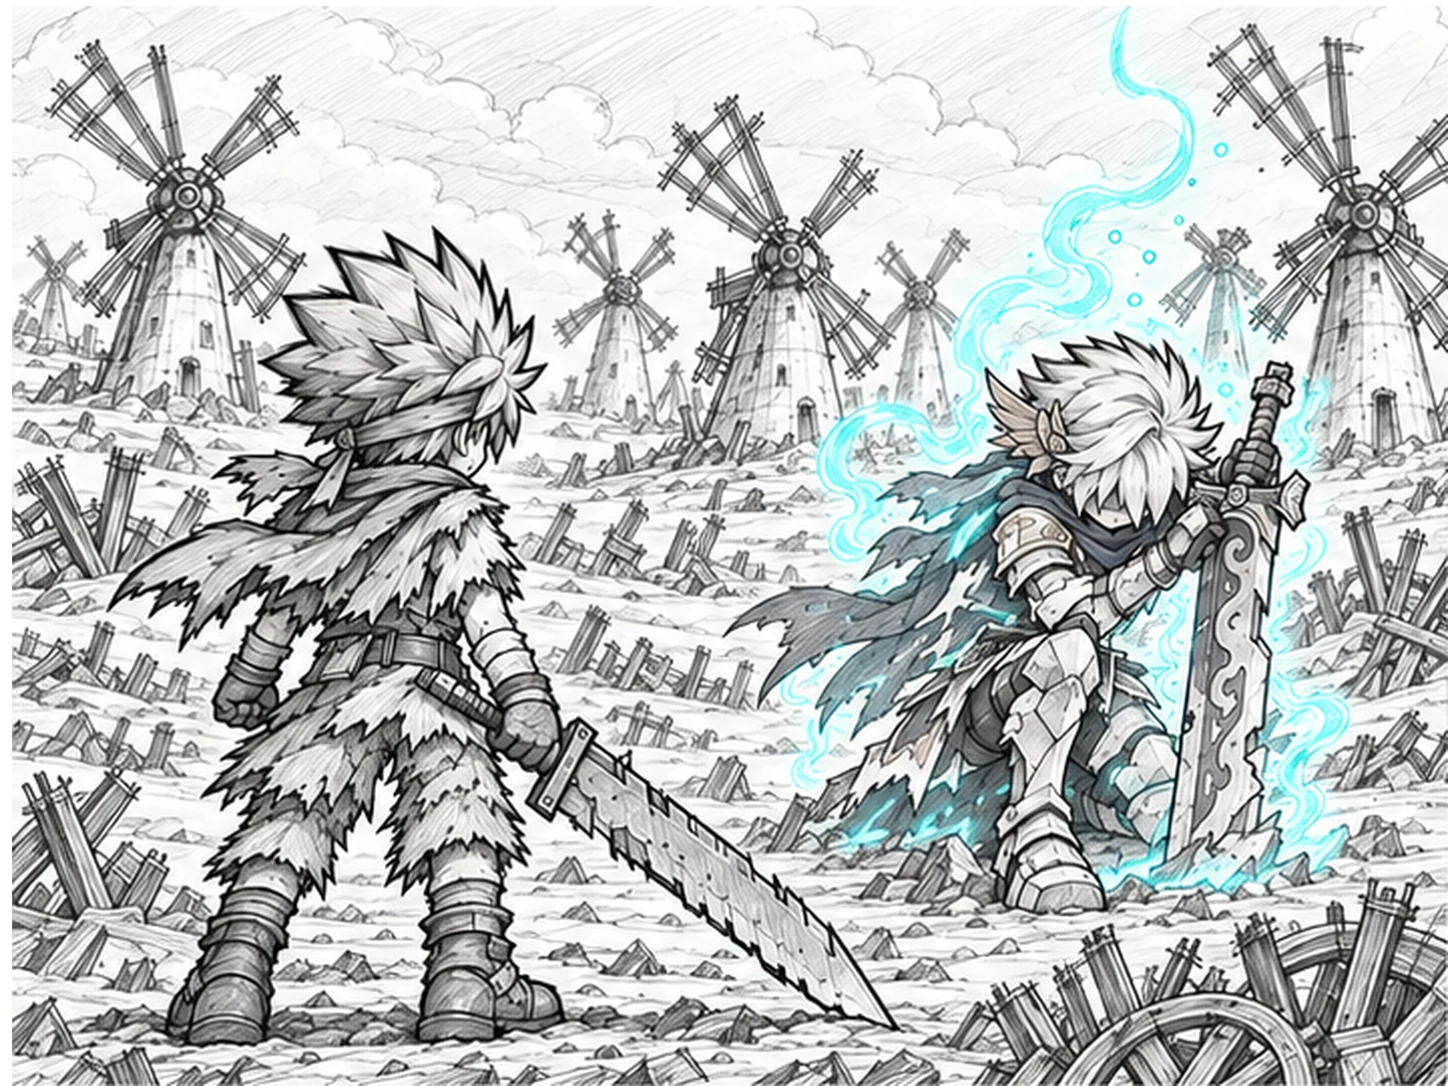
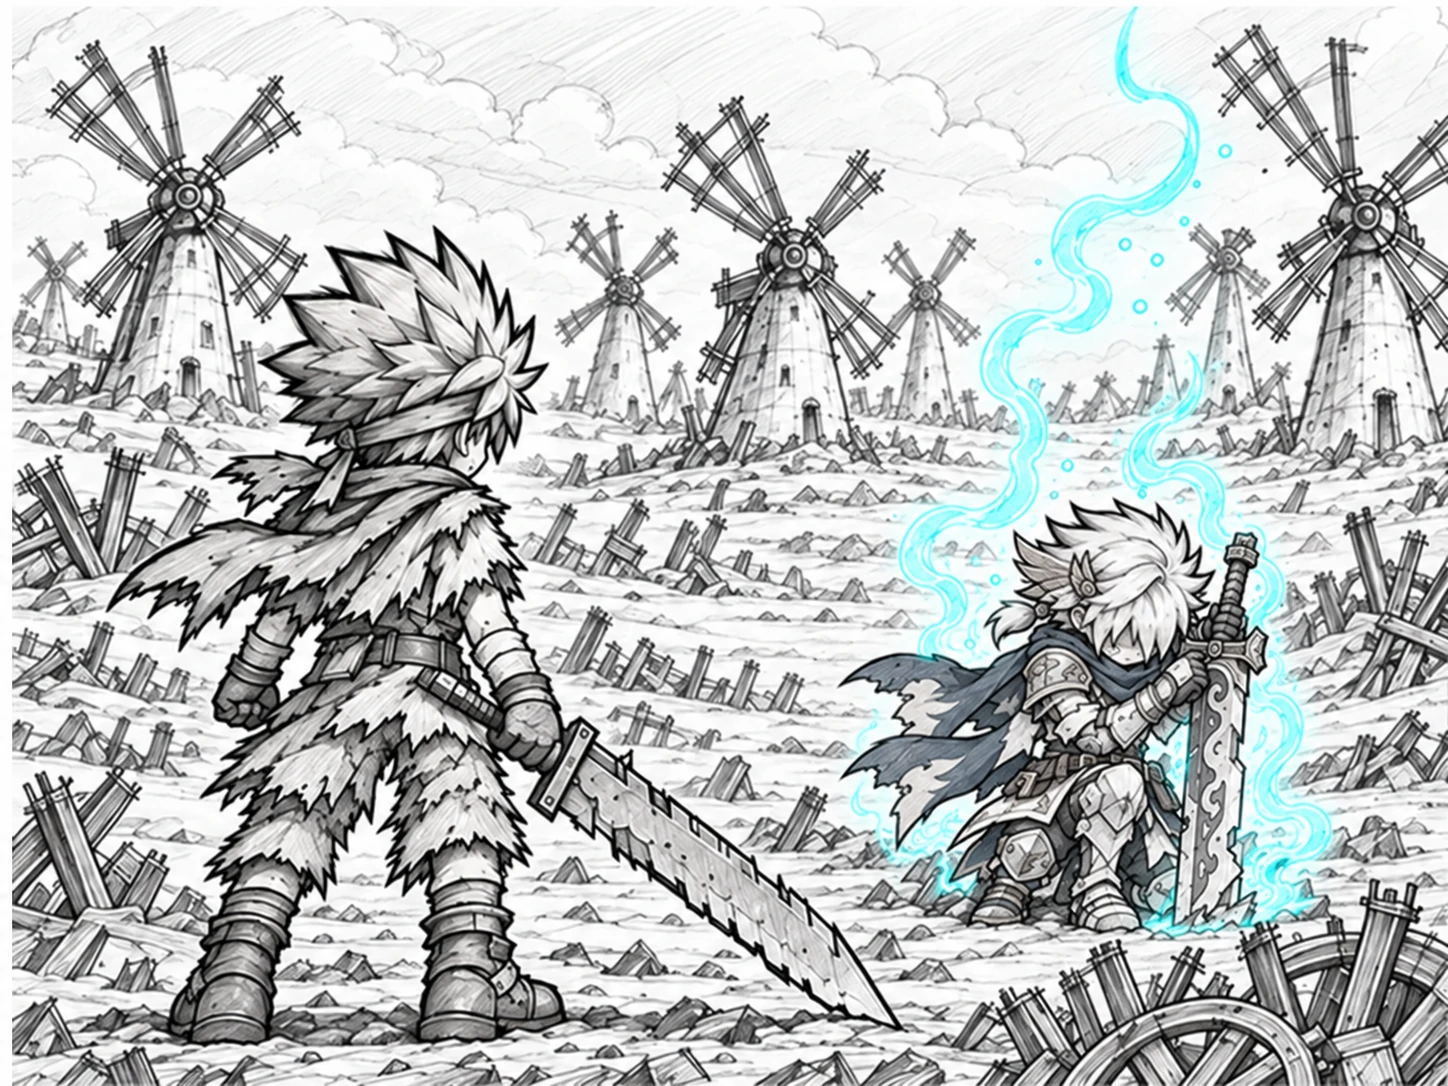
반전 1 · 2 · 4 컷 그림 교체 (DHL 10-30) + Live 위치 맞춤
Claude-Session: https://claude.ai/code/session_01UsiBrPk9kwis6B71C6gGhW

diff --git a/assets/art/story/live/scenes.js b/assets/art/story/live/scenes.js
@@ -3,27 +3,27 @@
          a = 숨은 비율, 나머지는 px · f = 초당 횟수
    fx: 원본의 빛 위에 겹치는 이펙트(화면 더하기) · emit: 입자 */
 window.LM_LIVE={
-reveal_01:{img:'../reveal_01.webp',cam:{z:1.05,x:70,y:45},
-  move:[{t:'breathe',x:350,y:650,rx:270,ry:430,an:1010,a:.005,f:.25},
-        {t:'hair',x:400,y:330,rx:170,ry:130,an:420,a:2.5,f:.35},
-        {t:'flag',x:230,y:520,rx:160,ry:110,an:340,a:3,f:.4},
-        {t:'breathe',x:1050,y:700,rx:210,ry:270,an:930,a:.007,f:.2},
-        {t:'hair',x:1093,y:410,rx:140,ry:110,an:480,a:2.5,f:.3,ph:1},
-        {t:'flag',x:860,y:640,rx:140,ry:170,an:1000,a:3,f:.35,ph:2}],
-  fx:[{i:'r1_f0.webp',x:1060,y:30,w:200,k:'rise',v:{d:'4s',dy:'-70px',hi:.8}},
-      {i:'r1_f2.webp',x:790,y:420,w:170,k:'rise',v:{d:'3.4s',dl:'-1s',dy:'-60px',hi:.75}},
-      {i:'r1_f2.webp',x:1250,y:470,w:150,k:'rise',v:{d:'3.8s',dl:'-2s',dy:'-60px',hi:.75}},
-      {i:'r1_f1.webp',x:860,y:560,w:200,k:'rise',v:{d:'4.4s',dl:'-3s',dy:'-50px',hi:.7}},
-      {i:'r1_f3.webp',x:930,y:880,w:300,k:'rise',v:{d:'5s',dl:'-1.5s',dy:'-40px',hi:.6}}],
-  emit:[{i:['dot_c.webp'],n:24,a:[860,450,1300,980],w:[6,16],k:'rise',d:[2.5,4.5],dy:-220,dx:30}]},
-reveal_02:{img:'../reveal_02.webp',cam:{z:1.05,x:45,y:55},
-  move:[{t:'breathe',x:470,y:640,rx:330,ry:340,an:990,a:.005,f:.2},
-        {t:'hair',x:560,y:380,rx:150,ry:110,an:450,a:2,f:.3},
-        {t:'hair',x:700,y:500,rx:130,ry:110,an:570,a:1.5,f:.27,ph:1.5},
-        {t:'cloth',x:250,y:720,rx:140,ry:130,an:600,a:2.5,f:.35}],
-  fx:[{i:'dot_g.webp',x:560,y:420,w:380,k:'pulse',v:{d:'3.2s',lo:.15,hi:.45}}],
-  emit:[{i:['r2_f0.webp','r2_f1.webp','r2_f2.webp','r2_f3.webp','r2_f5.webp','r2_f6.webp','r2_f8.webp'],n:16,a:[660,330,960,720],w:[22,52],k:'rise',d:[3.5,6],dy:-260,dx:50,hi:.9},
-        {i:['dot_g.webp'],n:14,a:[620,300,980,760],w:[6,14],k:'rise',d:[3,5],dy:-200}]},
+reveal_01:{img:'../reveal_01.webp',cam:{z:1.05,x:70,y:60},
+  move:[{t:'breathe',x:380,y:700,rx:250,ry:420,an:1030,a:.005,f:.25},
+        {t:'hair',x:400,y:300,rx:160,ry:120,an:390,a:2.5,f:.35},
+        {t:'flag',x:230,y:470,rx:150,ry:100,an:330,a:3,f:.4},
+        {t:'breathe',x:1100,y:800,rx:170,ry:210,an:1000,a:.007,f:.2},
+        {t:'hair',x:1090,y:520,rx:110,ry:85,an:585,a:2.5,f:.3,ph:1},
+        {t:'flag',x:930,y:720,rx:120,ry:110,an:1060,a:3,f:.35,ph:2}],
+  fx:[{i:'r1_f0.webp',x:1040,y:0,w:200,k:'rise',v:{d:'4s',dy:'-70px',hi:.8}},
+      {i:'r1_f2.webp',x:900,y:560,w:160,k:'rise',v:{d:'3.4s',dl:'-1s',dy:'-60px',hi:.75}},
+      {i:'r1_f2.webp',x:1230,y:600,w:140,k:'rise',v:{d:'3.8s',dl:'-2s',dy:'-60px',hi:.75}},
+      {i:'r1_f1.webp',x:980,y:760,w:180,k:'rise',v:{d:'4.4s',dl:'-3s',dy:'-50px',hi:.7}},
+      {i:'r1_f3.webp',x:1000,y:900,w:280,k:'rise',v:{d:'5s',dl:'-1.5s',dy:'-40px',hi:.6}}],
+  emit:[{i:['dot_c.webp'],n:24,a:[900,380,1300,1000],w:[6,16],k:'rise',d:[2.5,4.5],dy:-220,dx:30}]},
+reveal_02:{img:'../reveal_02.webp',cam:{z:1.05,x:45,y:58},
+  move:[{t:'breathe',x:590,y:650,rx:270,ry:280,an:900,a:.005,f:.2},
+        {t:'hair',x:530,y:410,rx:140,ry:100,an:490,a:2,f:.3},
+        {t:'hair',x:720,y:480,rx:110,ry:100,an:560,a:1.5,f:.27,ph:1.5},
+        {t:'cloth',x:290,y:700,rx:120,ry:120,an:600,a:2.5,f:.35}],
+  fx:[{i:'dot_g.webp',x:640,y:480,w:360,k:'pulse',v:{d:'3.2s',lo:.15,hi:.45}}],
+  emit:[{i:['r2_f0.webp','r2_f1.webp','r2_f2.webp','r2_f3.webp','r2_f5.webp','r2_f6.webp','r2_f8.webp'],n:16,a:[720,300,980,740],w:[22,52],k:'rise',d:[3.5,6],dy:-260,dx:50,hi:.9},
+        {i:['dot_g.webp'],n:14,a:[700,300,1000,760],w:[6,14],k:'rise',d:[3,5],dy:-200}]},
 reveal_03:{img:'../reveal_03.webp',cam:{z:1.04,x:52,y:42},
   move:[{t:'breathe',x:420,y:650,rx:240,ry:340,an:940,a:.004,f:.25},
         {t:'hair',x:400,y:350,rx:150,ry:110,an:430,a:2.5,f:.33},
@@ -36,12 +36,12 @@ reveal_03:{img:'../reveal_03.webp',cam:{z:1.04,x:52,y:42},
         .map(([x,y],i)=>({i:'r3_f'+(1+i)+'.png',x:x-22,y:y-22,w:44,k:'flick',v:{d:(1.3+(i%5)*.37)+'s',dl:(-i*.41)+'s',lo:.15}}))],
   emit:[{i:['dot_g.webp'],n:8,a:[700,360,860,520],w:[5,11],k:'rise',d:[2,3.5],dy:-90,dx:25}]},
 reveal_04:{img:'../reveal_04.webp',cam:{z:1.06,x:50,y:30,d:10},shake:1.2,
-  move:[{t:'breathe',x:720,y:520,rx:380,ry:480,an:960,a:.004,f:.18},
-        {t:'breathe',x:620,y:900,rx:170,ry:150,an:1010,a:.006,f:.3},
-        {t:'hair',x:540,y:780,rx:70,ry:50,an:800,a:2,f:.4},
-        {t:'hair',x:670,y:780,rx:70,ry:50,an:800,a:2,f:.4,ph:1}],
-  fx:[{i:'r4_fx1.webp',x:648,y:224,w:42,k:'flick',v:{d:'2.2s'}},{i:'r4_fx0.webp',x:688,y:224,w:42,k:'flick',v:{d:'2.2s',dl:'-.3s'}},
-      {i:'r4_fx2.webp',x:577,y:341,w:226,k:'pulse',v:{d:'1.8s',lo:.3,hi:1}}],
+  move:[{t:'breathe',x:720,y:520,rx:400,ry:480,an:950,a:.004,f:.18},
+        {t:'breathe',x:620,y:880,rx:170,ry:150,an:1010,a:.006,f:.3},
+        {t:'hair',x:510,y:720,rx:70,ry:55,an:760,a:2,f:.4},
+        {t:'hair',x:665,y:720,rx:70,ry:55,an:760,a:2,f:.4,ph:1}],
+  fx:[{i:'r4_fx1.webp',x:667,y:225,w:42,k:'flick',v:{d:'2.2s'}},{i:'r4_fx0.webp',x:712,y:225,w:42,k:'flick',v:{d:'2.2s',dl:'-.3s'}},
+      {i:'r4_fx2.webp',x:591,y:301,w:248,k:'pulse',v:{d:'1.8s',lo:.3,hi:1}}],
   emit:[{i:['r4_rock4.webp','r4_rock6.webp','r4_rock7.webp','r4_rock8.webp','r4_rock9.webp','r4_rock10.webp','r4_rock11.webp','r4_rock12.webp'],n:12,a:[0,-220,1448,-120],w:[24,70],k:'fall',d:[3,6],dy:1350,dx:60,b:'n'}]},
 ending_01:{img:'../ending_01.webp',cam:{z:1.05,x:54,y:48},shake:2,
   move:[{t:'bob',x:700,y:330,rx:520,ry:330,a:4,f:.25},
